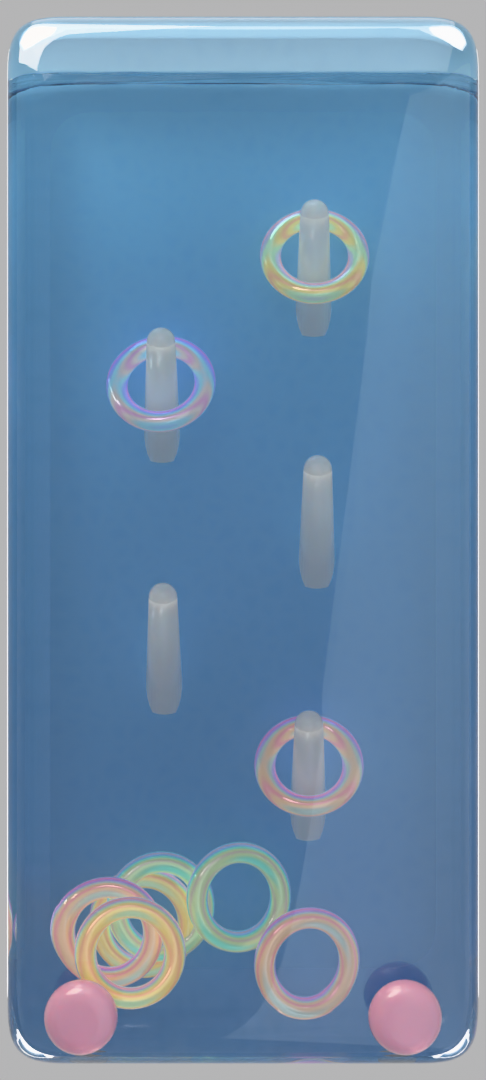
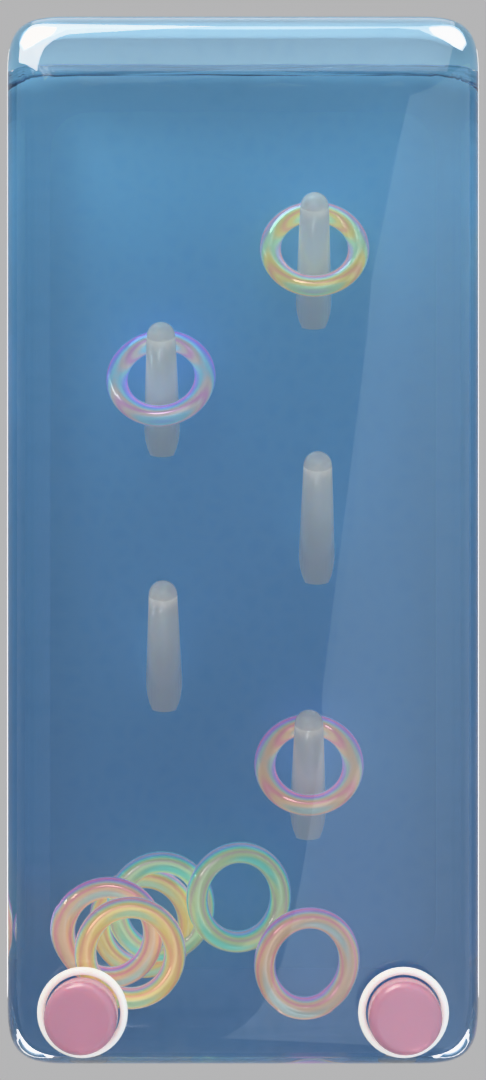
Fill the chamber, and give the buttons a rim
The water level reads against the frame, not against the interior, and
under a perspective lens the frame also shows the ceiling and the top bevel
of the glass — so a fill that was 95% of the interior looked like 90% of
the picture. It is 95.8% now, which puts a slim band of air at the top and
nothing more.

The buttons were domes: the bevel was sized off their depth, and most of
the depth went into it. It is sized off the radius now, so the face stays
flat inside a distinct rounded chamfer, and each button sits in an opal
collar so it is mounted in something rather than stuck to the glass.

Seam still 1.2mm and 0.0 degrees.

Claude-Session: https://claude.ai/code/session_01TZe4wd6eM7kjuWv763vxu9

diff --git a/blender/water_ring_toy.py b/blender/water_ring_toy.py
@@ -179,7 +179,7 @@ def parse_args(argv: list[str] | None = None) -> argparse.Namespace:
                            "retro coral")
 
     water = p.add_argument_group("water")
-    water.add_argument("--fill", type=float, default=0.95,
+    water.add_argument("--fill", type=float, default=0.958,
                        help="water level as a fraction of chamber height. "
                             "The air gap at the top is where the jet breaks "
                             "the surface, so 1.0 costs the splash")
@@ -588,11 +588,13 @@ def button_body(name: str, radius: float, depth: float) -> bpy.types.Object:
         rotation=(math.radians(90.0), 0.0, 0.0))
     obj = bpy.context.active_object
     obj.name = name
-    bevel = obj.modifiers.new("soften", "BEVEL")
-    # Most of the depth goes into the bevel, so the button is a dome rather
-    # than a drum — under a perspective lens a drum shows its whole side.
-    bevel.width = depth * 0.46
-    bevel.segments = 4
+    bevel = obj.modifiers.new("chamfer", "BEVEL")
+    # A flat face with a distinct rounded chamfer round its rim — a button,
+    # not a ball. The width is off the radius so the face stays flat; off
+    # the depth, as it was, the whole thing rolled into a dome.
+    bevel.width = radius * 0.24
+    bevel.segments = 6
+    bevel.profile = 0.55
     bevel.limit_method = "ANGLE"
     activate(obj)
     bpy.ops.object.shade_smooth()
@@ -1399,9 +1401,21 @@ def build_jets(args, built: dict, fill_z: float) -> list[dict]:
         nozzle.show_instancer_for_render = False
         nozzle.show_instancer_for_viewport = False
 
-        depth = size.y * 0.22
+        depth = size.y * 0.16
         button = button_body(f"Ringtoy_Button_{i}", button_r, depth)
-        button.location = (x, -size.y * 0.5 - depth * 0.4, button_z)
+        button.location = (x, -size.y * 0.5 - depth * 0.45, button_z)
+        # A collar round the base, so the button is mounted in something
+        # rather than stuck to the glass.
+        bpy.ops.mesh.primitive_torus_add(
+            major_radius=button_r * 1.14, minor_radius=button_r * 0.11,
+            major_segments=48, minor_segments=12,
+            location=(x, -size.y * 0.5 - button_r * 0.04, button_z),
+            rotation=(math.radians(90.0), 0.0, 0.0))
+        collar = bpy.context.active_object
+        collar.name = f"Ringtoy_Collar_{i}"
+        collar.data.materials.append(
+            milk_glass_material(f"ringtoy_collar_{i}", HOOK_COLOUR))
+        bpy.ops.object.shade_smooth()
         material, shader = button_material(f"ringtoy_button_{i}")
         button.data.materials.append(material)
 
